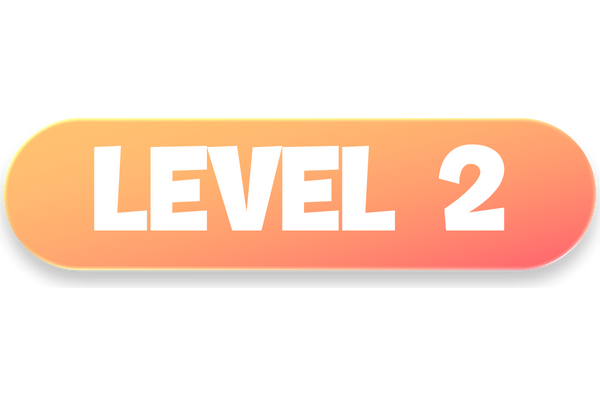
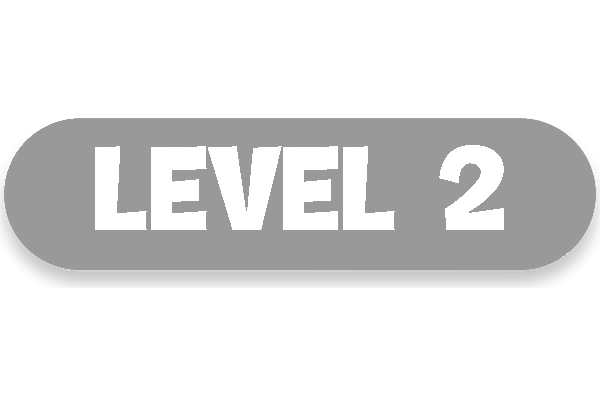
implement game progress saving

Changed region(s): [[0.0, 0.27, 1.0, 0.69]]

diff --git a/core/src/main/java/com/berdanbakan/jumplane/LevelMenuScreen.java b/core/src/main/java/com/berdanbakan/jumplane/LevelMenuScreen.java
@@ -1,6 +1,7 @@
 package com.berdanbakan.jumplane;
 
 import com.badlogic.gdx.Gdx;
+import com.badlogic.gdx.Preferences;
 import com.badlogic.gdx.Screen;
 import com.badlogic.gdx.audio.Music;
 import com.badlogic.gdx.audio.Sound;
@@ -30,6 +31,7 @@ public class LevelMenuScreen implements Screen {
     private Texture backButtonTexture;
     private ImageButton  backButton;
 
+    private Preferences prefs;
 
     public LevelMenuScreen(JumPlane game){
         this.game=game;
@@ -41,6 +43,9 @@ public class LevelMenuScreen implements Screen {
         createExitButton();
         createBackButton();
 
+        prefs = Gdx.app.getPreferences("My Preferences");
+        unlockedLevel = prefs.getInteger("unlockedLevel", 1);
+
         clickSound=Gdx.audio.newSound(Gdx.files.internal("clicksound.mp3"));
     }
 
@@ -51,9 +56,9 @@ public class LevelMenuScreen implements Screen {
 
     public void setUnlockedLevel(int unlockedLevel) {
         this.unlockedLevel = unlockedLevel;
+        stage.clear();
+        createLevelButtons();
     }
-
-
 
 
     private void createLevelButtons(){
@@ -62,43 +67,60 @@ public class LevelMenuScreen implements Screen {
 
         ImageButton[] levelButtons = new ImageButton[5];
 
-        for (int i=1;i<=5;i++){
-            Texture levelbuttonTexture=new Texture("level"+i+"button.png");
-            ImageButton.ImageButtonStyle buttonStyle=new ImageButton.ImageButtonStyle();buttonStyle.imageUp=new com.badlogic.gdx.scenes.scene2d.ui.Image(levelbuttonTexture).getDrawable();
+        for (int i = 1; i <= 5; i++){
+            Texture levelbuttonTexture;
+
+            if (i == 1){
+                levelbuttonTexture = new Texture("level" + i + "openedbutton.png"); // 1. seviye her zaman açık
+            } else if (i <= unlockedLevel) {
+                levelbuttonTexture = new Texture("level" + i + "openedbutton.png"); // Açık seviye butonu
+            } else {
+                levelbuttonTexture = new Texture("level" + i + "button.png"); // Kapalı seviye butonu
+            }
+
+            ImageButton.ImageButtonStyle buttonStyle = new ImageButton.ImageButtonStyle();
+            buttonStyle.imageUp = new com.badlogic.gdx.scenes.scene2d.ui.Image(levelbuttonTexture).getDrawable();
 
             ImageButton levelButton = new ImageButton(buttonStyle);
             levelButtons[i-1] = levelButton;
-            levelButton.setSize(buttonWidth,buttonHeight);
-        }
+            levelButton.setSize(buttonWidth, buttonHeight);
 
-        // Butonları konumlandır
-        float offsetX = 250f; // Kaydırma miktarı
-        float offsetY = 150f;
+            if (i > unlockedLevel) {
+                levelButton.setDisabled(true);
+            }
 
+            // Butonları konumlandır
+            float offsetX = 250f; // Kaydırma miktarı
+            float offsetY = 150f;
 
-        levelButtons[0].setPosition(offsetX, offsetY);
-        levelButtons[1].setPosition(Gdx.graphics.getWidth() / 2 - buttonWidth / 2, offsetY);
-        levelButtons[2].setPosition(Gdx.graphics.getWidth() - buttonWidth - offsetX, offsetY);
+            if (i == 1) {
+                levelButton.setPosition(offsetX, offsetY);
+            } else if (i == 2) {
+                levelButton.setPosition(Gdx.graphics.getWidth() / 2 - buttonWidth / 2, offsetY);
+            } else if (i == 3) {
+                levelButton.setPosition(Gdx.graphics.getWidth() - buttonWidth - offsetX, offsetY);
+            } else if (i == 4) {
+                levelButton.setPosition(Gdx.graphics.getWidth() / 4 - buttonWidth / 2 + 180, offsetY - buttonHeight + 100);
+            } else if (i == 5) {
+                levelButton.setPosition(Gdx.graphics.getWidth() * 3 / 4 - buttonWidth / 2 - 180, offsetY - buttonHeight + 100);
+            }
 
-
-        levelButtons[3].setPosition(Gdx.graphics.getWidth() / 4 - buttonWidth / 2 + 180,  offsetY - buttonHeight + 100);
-        levelButtons[4].setPosition(Gdx.graphics.getWidth() * 3 /4 - buttonWidth / 2 - 180, offsetY - buttonHeight + 100);
-
-        for (int i=1;i<=5;i++){
             final int level = i;
-            levelButtons[i-1].addListener(new ClickListener(){
+            levelButton.addListener(new ClickListener() {
                 @Override
-                public void clicked(InputEvent event,float x,float y){
+                public void clicked(InputEvent event, float x, float y) {
                     clickSound.play();
-                    if (level<=unlockedLevel){
-                        game.setScreen(new GameScreen(game, level,LevelMenuScreen.this));
-                        dispose();
+                    if (level <= unlockedLevel) {
+                        game.setScreen(new GameScreen(game, level, LevelMenuScreen.this));
                     }
                 }
             });
-            stage.addActor(levelButtons[i-1]);
+
+            stage.addActor(levelButton);
         }
     }
+
+
 
     private void createExitButton(){
         exitButtonTexture=new Texture("exitbutton.png");
@@ -134,8 +156,7 @@ public class LevelMenuScreen implements Screen {
             @Override
             public void clicked(InputEvent event,float x,float y){
                 clickSound.play();
-                MainMenuScreen mainMenuScreen=new MainMenuScreen(game);
-                game.setScreen(mainMenuScreen);
+                game.setScreen(new MainMenuScreen(game));
             }
         });
         stage.addActor(backButton);
@@ -144,6 +165,16 @@ public class LevelMenuScreen implements Screen {
 
     @Override
     public void show(){
+        if (stage == null) { // stage nesnesi yoksa oluştur
+            stage = new Stage(new ScreenViewport());
+        } else {
+            stage.clear(); // stage nesnesi varsa temizle
+        }
+
+        createLevelButtons();
+        createExitButton();
+        createBackButton();
+
         Gdx.input.setInputProcessor(stage);
         game.stopMusic();
     }
@@ -193,18 +224,19 @@ public class LevelMenuScreen implements Screen {
 
     @Override
     public void hide(){
+        stage.clear();
+    }
+
+    @Override
+    public void dispose(){
+        batch.dispose();
+        levelbackgroundTexture.dispose();
+
+
+        exitButtonTexture.dispose();
+        backButtonTexture.dispose();
+
+        clickSound.dispose();
 
     }
-   @Override
-    public void dispose(){
-       stage.dispose();
-       batch.dispose();
-       levelbackgroundTexture.dispose();
-       exitButtonTexture.dispose();
-       clickSound.dispose();
-       exitButton.clearListeners();
-       backButtonTexture.dispose();
-       backButton.clearListeners();
-
-   }
 }

diff --git a/core/src/main/java/com/berdanbakan/jumplane/GameScreen.java b/core/src/main/java/com/berdanbakan/jumplane/GameScreen.java
@@ -1,5 +1,6 @@
 package com.berdanbakan.jumplane;
 
+import com.badlogic.gdx.Preferences;
 import com.badlogic.gdx.math.Rectangle;
 import com.badlogic.gdx.Gdx;
 import com.badlogic.gdx.Screen;
@@ -74,11 +75,15 @@ public class GameScreen implements Screen {
     private String touchToStartText_tr = "DOKUN VE BASLA!";
     private String killedEnemiesText_tr = "Vurulan Canavar: ";
 
+    private Preferences prefs;
+
     public GameScreen(JumPlane game, int level, LevelMenuScreen levelMenuScreen) {
         this.game = game;
         this.level = level;
         this.levelMenuScreen = levelMenuScreen;
         batch = new SpriteBatch();
+
+        prefs = Gdx.app.getPreferences("My Preferences");
 
         background = new Background();
         background.setLevel(level);
@@ -326,21 +331,23 @@ public class GameScreen implements Screen {
         font.getData().setScale(1f);
         batch.end();
     }
+
     private void handlePauseMenuInput() {
         if (Gdx.input.justTouched()) {
             int touchX = Gdx.input.getX();
             int touchY = Gdx.graphics.getHeight() - Gdx.input.getY();
 
             // Devam Et düğmesi
-            if (touchX > Gdx.graphics.getWidth() / 2f - 300f && touchX < Gdx.graphics.getWidth() / 2f + 300f &&
-                    touchY >Gdx.graphics.getHeight() / 2f - 50f && touchY < Gdx.graphics.getHeight() / 2f + 150f) {
+            if (touchX> Gdx.graphics.getWidth() / 2f - 300f && touchX < Gdx.graphics.getWidth() / 2f + 300f &&
+                    touchY > Gdx.graphics.getHeight() / 2f - 50f && touchY < Gdx.graphics.getHeight() / 2f + 150f) {
                 isPaused = false;
             }
 
-            // Ana Menü düğmesi
-            if (touchX > Gdx.graphics.getWidth() / 2f - 300f && touchX < Gdx.graphics.getWidth() / 2f + 300f &&
+
+            if (touchX > Gdx.graphics.getWidth() / 2f - 300f && touchX< Gdx.graphics.getWidth() / 2f + 300f &&
                     touchY > Gdx.graphics.getHeight() / 2f - 200f && touchY < Gdx.graphics.getHeight() / 2f - 0f) {
-                game.setScreen(new MainMenuScreen(game));
+                levelMenuScreen.show();
+                game.setScreen(levelMenuScreen);
             }
         }
     }
@@ -353,6 +360,14 @@ public class GameScreen implements Screen {
 
         isLoading = true;
         levelManager.gameStarted = false;
+
+        if (levelManager.currentLevel > prefs.getInteger("unlockedLevel", 1)) {
+            prefs.putInteger("unlockedLevel", levelManager.currentLevel);
+            prefs.flush();
+
+
+            levelMenuScreen.setUnlockedLevel(levelManager.currentLevel);
+        }
 
         Timer.schedule(new Timer.Task() {
             @Override
@@ -374,7 +389,7 @@ public class GameScreen implements Screen {
             killedEnemiesText = killedEnemiesText_tr+ enemyManager.killedEnemies + " / " + levelManager.levelTargets[levelManager.currentLevel - 1];
             levelText = levelText_tr + levelManager.currentLevel;
             coinsText = coinsText_tr + collectedCoins + "/" + levelManager.levelCoinTargets[levelManager.currentLevel - 1];
-        } else { // currentLanguage.equals("en")
+        } else {
             killedEnemiesText = killedEnemiesText_en + enemyManager.killedEnemies + " / " + levelManager.levelTargets[levelManager.currentLevel - 1];
             levelText =levelText_en + levelManager.currentLevel;
             coinsText = coinsText_en + collectedCoins + "/" + levelManager.levelCoinTargets[levelManager.currentLevel - 1];
@@ -435,9 +450,7 @@ public class GameScreen implements Screen {
         shapeRenderer.dispose();
         game.stopMusic();
         loadingBackgroundTexture.dispose();
-        if (loadingBackgroundTexture != null) {
-            loadingBackgroundTexture.dispose();
-        }
+
 
         for (Potion potion : potions) {
             potion.dispose();

diff --git a/core/src/main/java/com/berdanbakan/jumplane/MainMenuScreen.java b/core/src/main/java/com/berdanbakan/jumplane/MainMenuScreen.java
@@ -1,6 +1,7 @@
 package com.berdanbakan.jumplane;
 
 import com.badlogic.gdx.Gdx;
+import com.badlogic.gdx.Preferences;
 import com.badlogic.gdx.Screen;
 import com.badlogic.gdx.audio.Music;
 import com.badlogic.gdx.audio.Sound;
@@ -62,6 +63,7 @@ public class MainMenuScreen implements Screen {
 
     private Texture languageButtonTexture_en;
     private Texture languageButtonTexture_tr;
+
 
     public MainMenuScreen(JumPlane game) {
         this.game = game;
